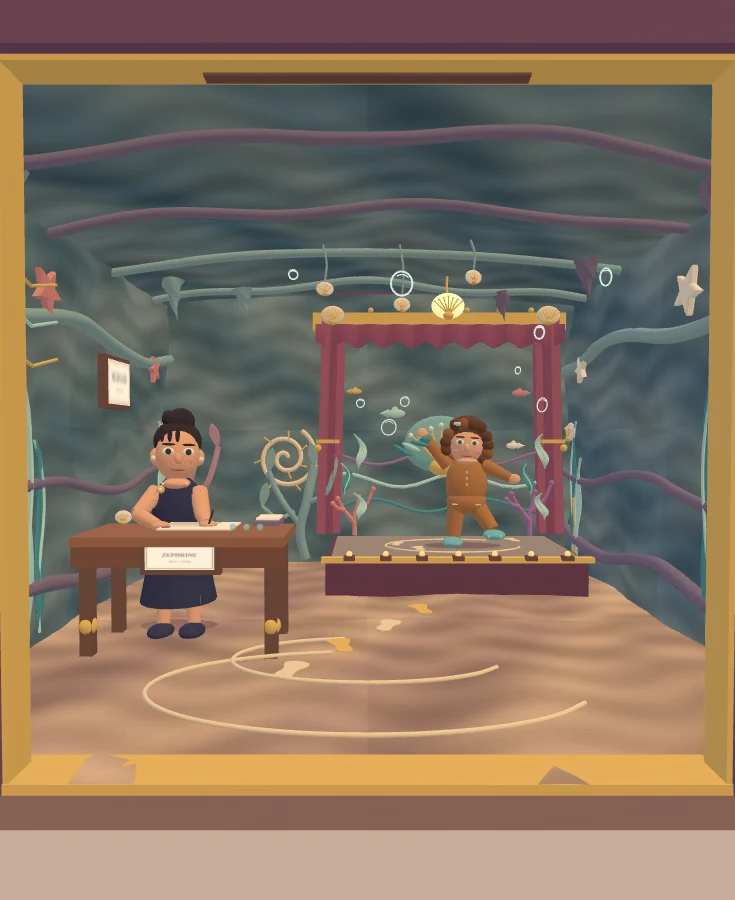
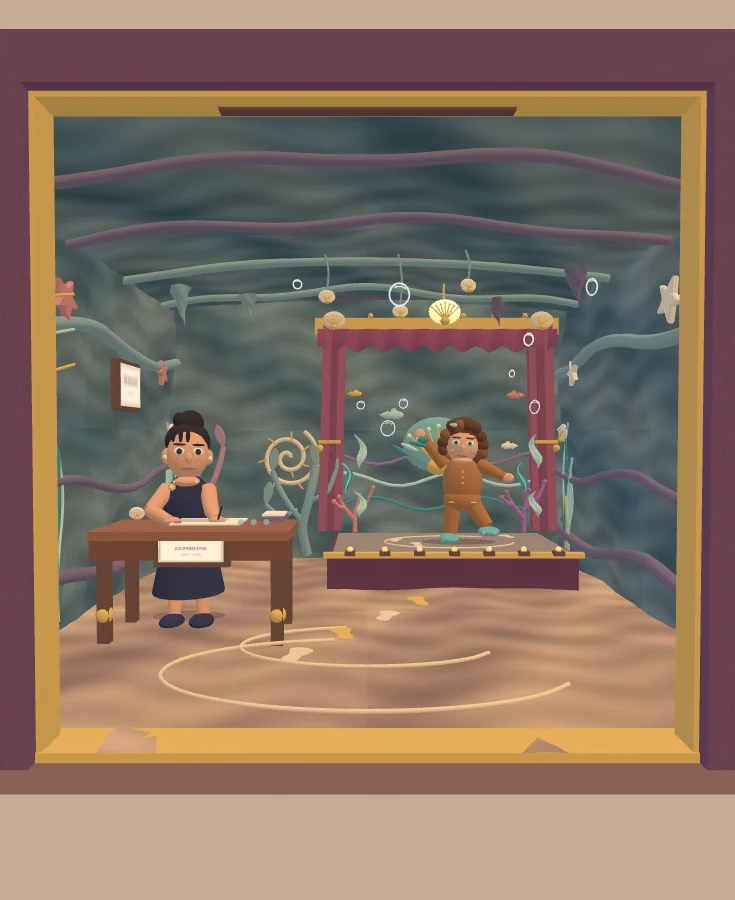
Widen gallery and caption completed paintings

diff --git a/docs/scene-registry.md b/docs/scene-registry.md
@@ -6,7 +6,7 @@ The gallery has 41 stable frame IDs. The 39 original achievement pages are a sep
 
 | Frame | Status | Memory or event | People | Distinctive setting and motifs | Source |
 | --- | --- | --- | --- | --- | --- |
-| `01` | Published | “You signed Zephrine up for dance and acting classes!” | Jane, Zephrine | Frozen signup moment: Jane at a desk, Zephrine on a small stage; storybook undersea cave with mermaid, kelp, coral, shells, script, and footprints; painting opens into a continuous walk-through doorway | [author](../scripts/room01_author.mjs), [manifest](../src/_data/gallery.json), [live room](https://13times3.com/explore/) |
+| `01` | Published | “You signed Zephrine up for dance and acting classes!” | Jane, Zephrine | Frozen signup moment: Jane at a desk, Zephrine on a small stage; storybook undersea cave with mermaid, kelp, coral, shells, script, and footprints; painting labeled “Zephrine's first stage” opens into a continuous walk-through doorway | [author](../scripts/room01_author.mjs), [manifest](../src/_data/gallery.json), [live room](https://13times3.com/explore/) |
 | `02` | Planned | “Jane helped me (Oleg) get a job” | Jane, Oleg | Jane's help with Oleg's job; the specific setting and actions are still to be defined | Oleg's idea, 2026-10-19 |
 | `03` | Planned | “Jane made sure Zephrine has a best friend (Charlize)” | Jane, Zephrine, Charlize | The friendship Jane helped create; the specific moment is still to be defined | Oleg's idea, 2026-10-19 |
 | `04` | Planned | “Jane Got zephrine the ‘blue car’” | Jane, Zephrine | The “blue car”; what it is and the scene's moment are still to be defined | Oleg's idea, 2026-10-19 |

diff --git a/docs/scene-guide.md b/docs/scene-guide.md
@@ -5,6 +5,7 @@ These are decisions and corrections from developing frame `01`. Read them with t
 ## Art direction
 
 - Make the hallway spacious, dreamlike, and architectural. Avoid a narrow digital tunnel, repeated hexagons, empty flat walls, and decorative elements that hide labels or signs.
+- Blank frames keep their two-digit number plaques. Every completed room needs a short `room.caption` in the gallery manifest; display it above the painting in place of that number. Keep it readable from the wider hallway and clear of nearby trim and pilasters.
 - Make each room a coherent, detailed 3D storybook tableau. Give surfaces, ceiling, props, figures, and lighting a shared visual language. Use custom contours, layered materials, carvings, and intentional silhouettes; large default spheres, ovals, and egg shapes make the scene look unfinished.
 - Every character and important prop should have volume from multiple viewpoints. Do not use 2D photo cutouts. A recognizable painted likeness does not need photorealism. Keep photos as private references; do not publish the originals or their metadata.
 - Jane's, Zephrine's, and Oleg's uploaded reference photos are stored locally under `.secrets/reference-photos/` and excluded from Git. Use them when a later scene includes those people. Oleg's files are `oleg-portrait.jpg` and `oleg-with-jane-and-zephrine.jpg`; they show his medium-length dark brown hair, dark rectangular glasses, and short beard. The private copies have been resized and stripped of EXIF metadata. Do not publish the original photos or these reference copies.
